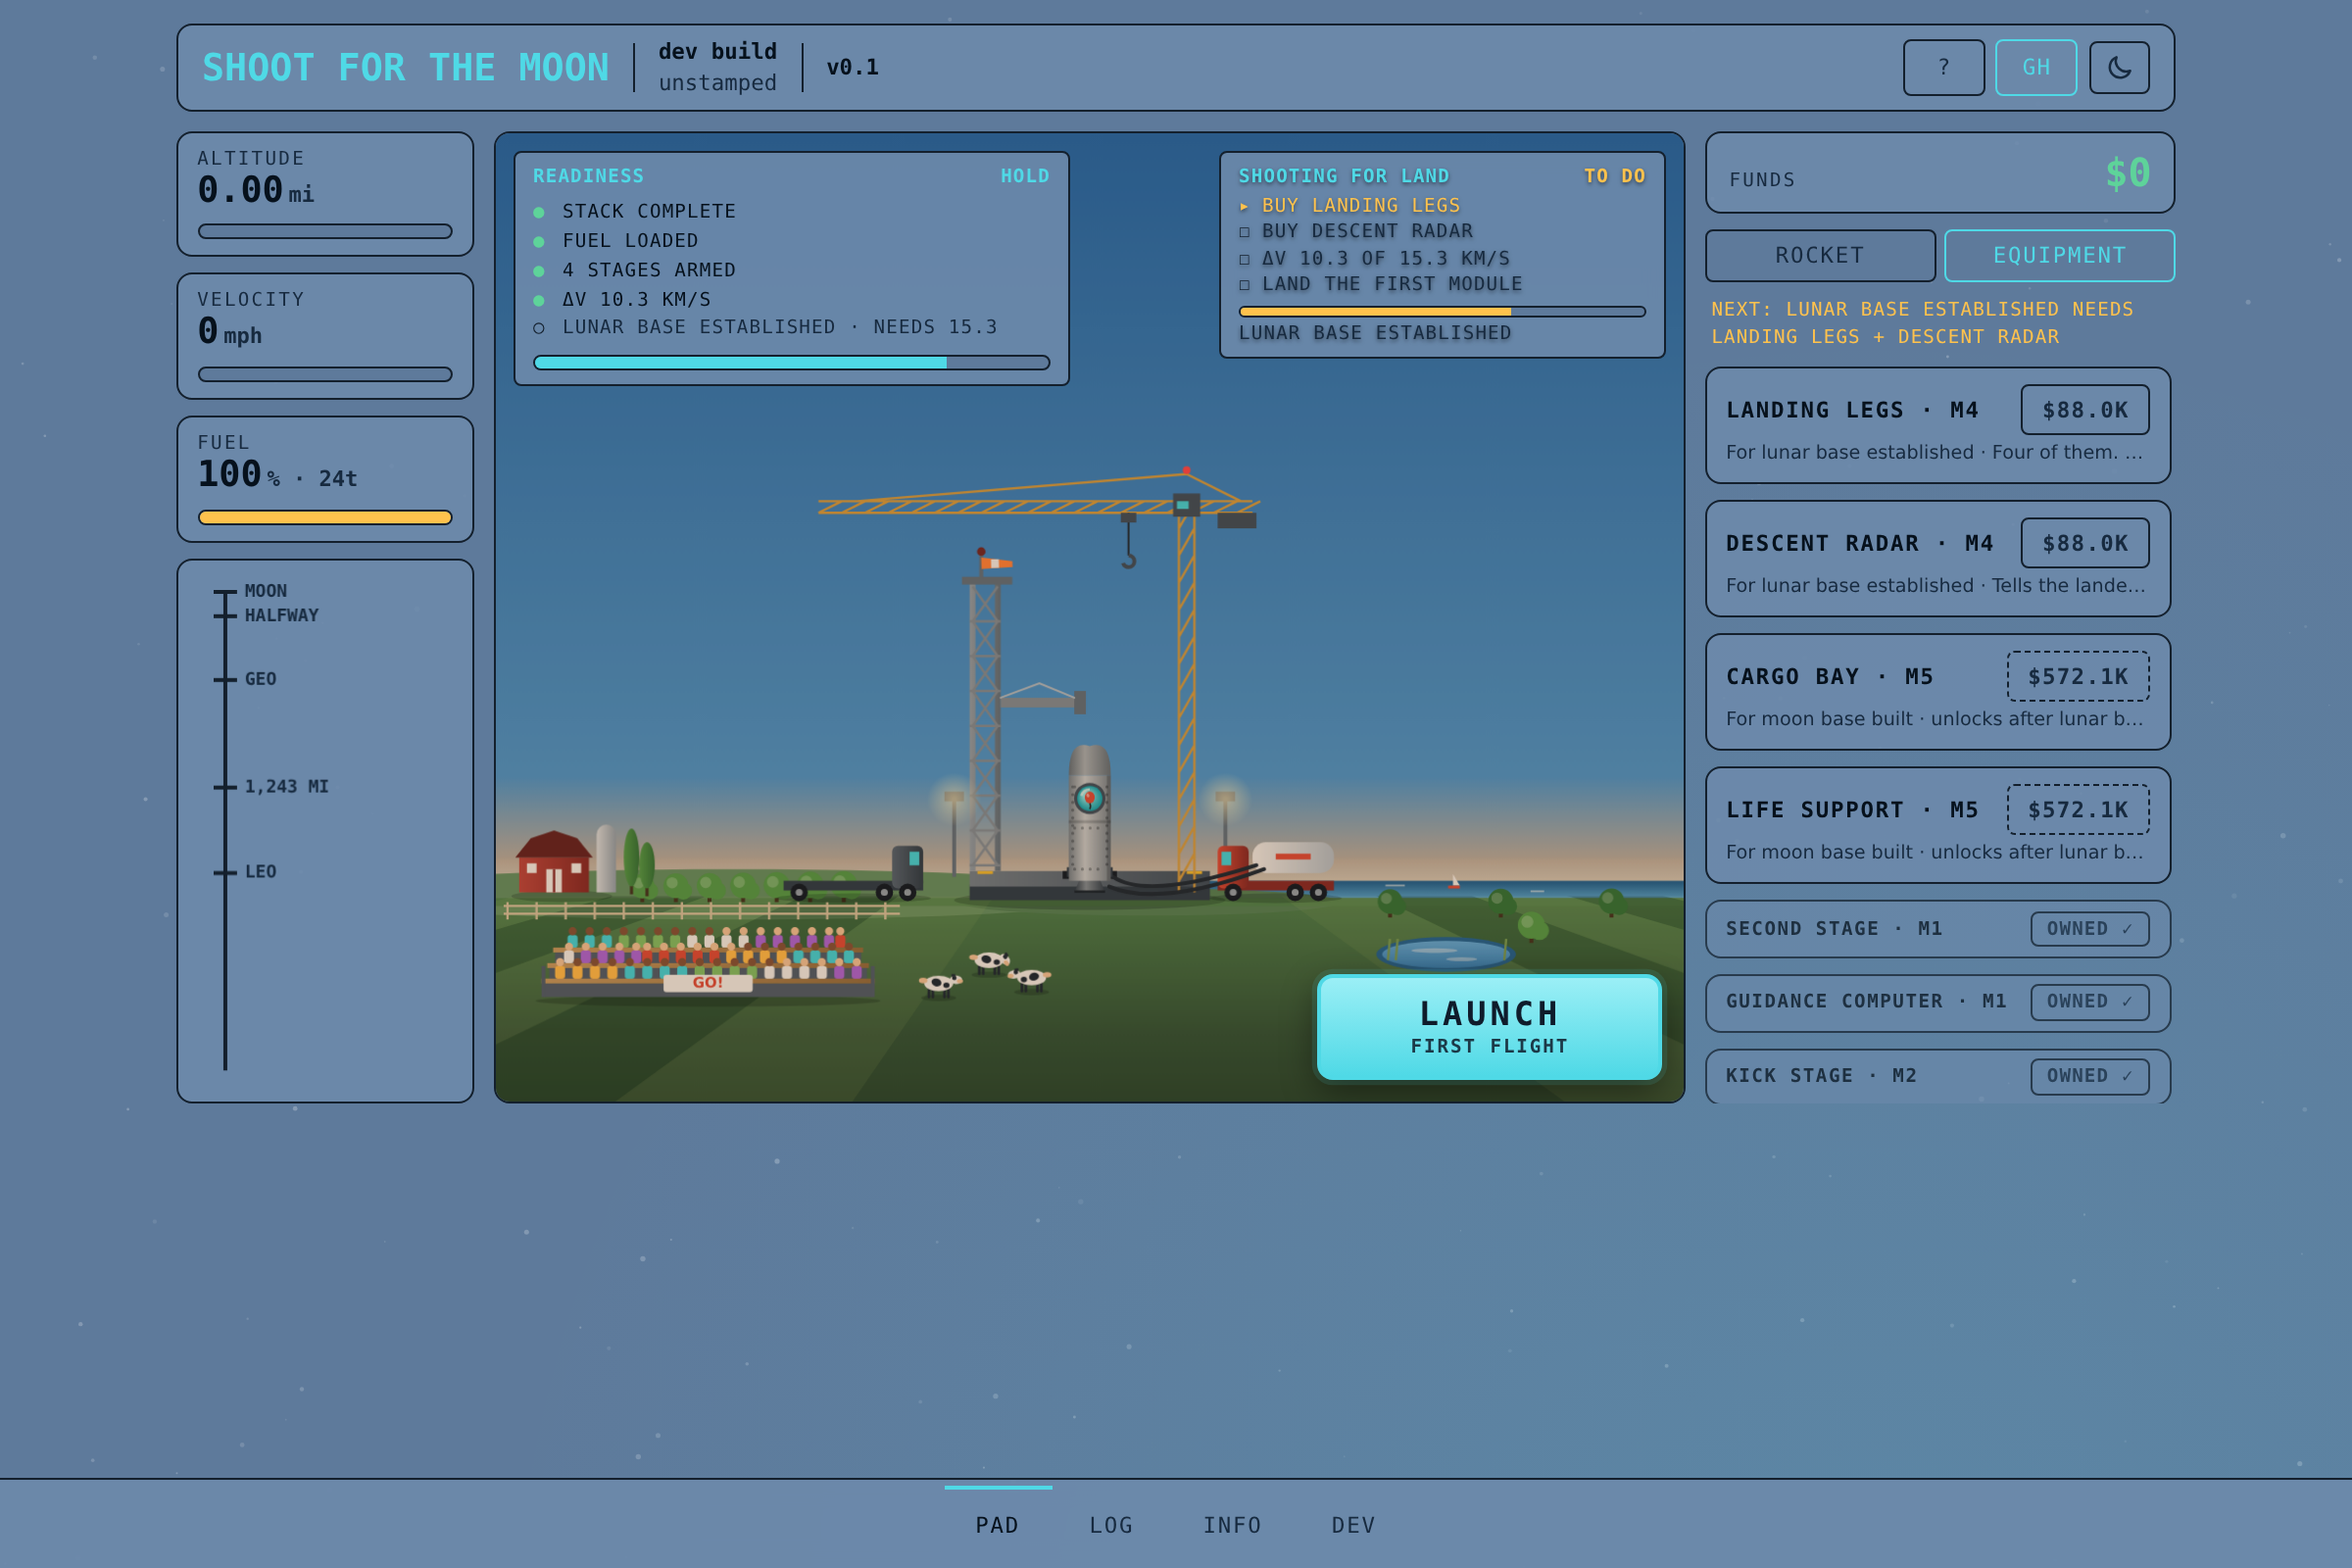
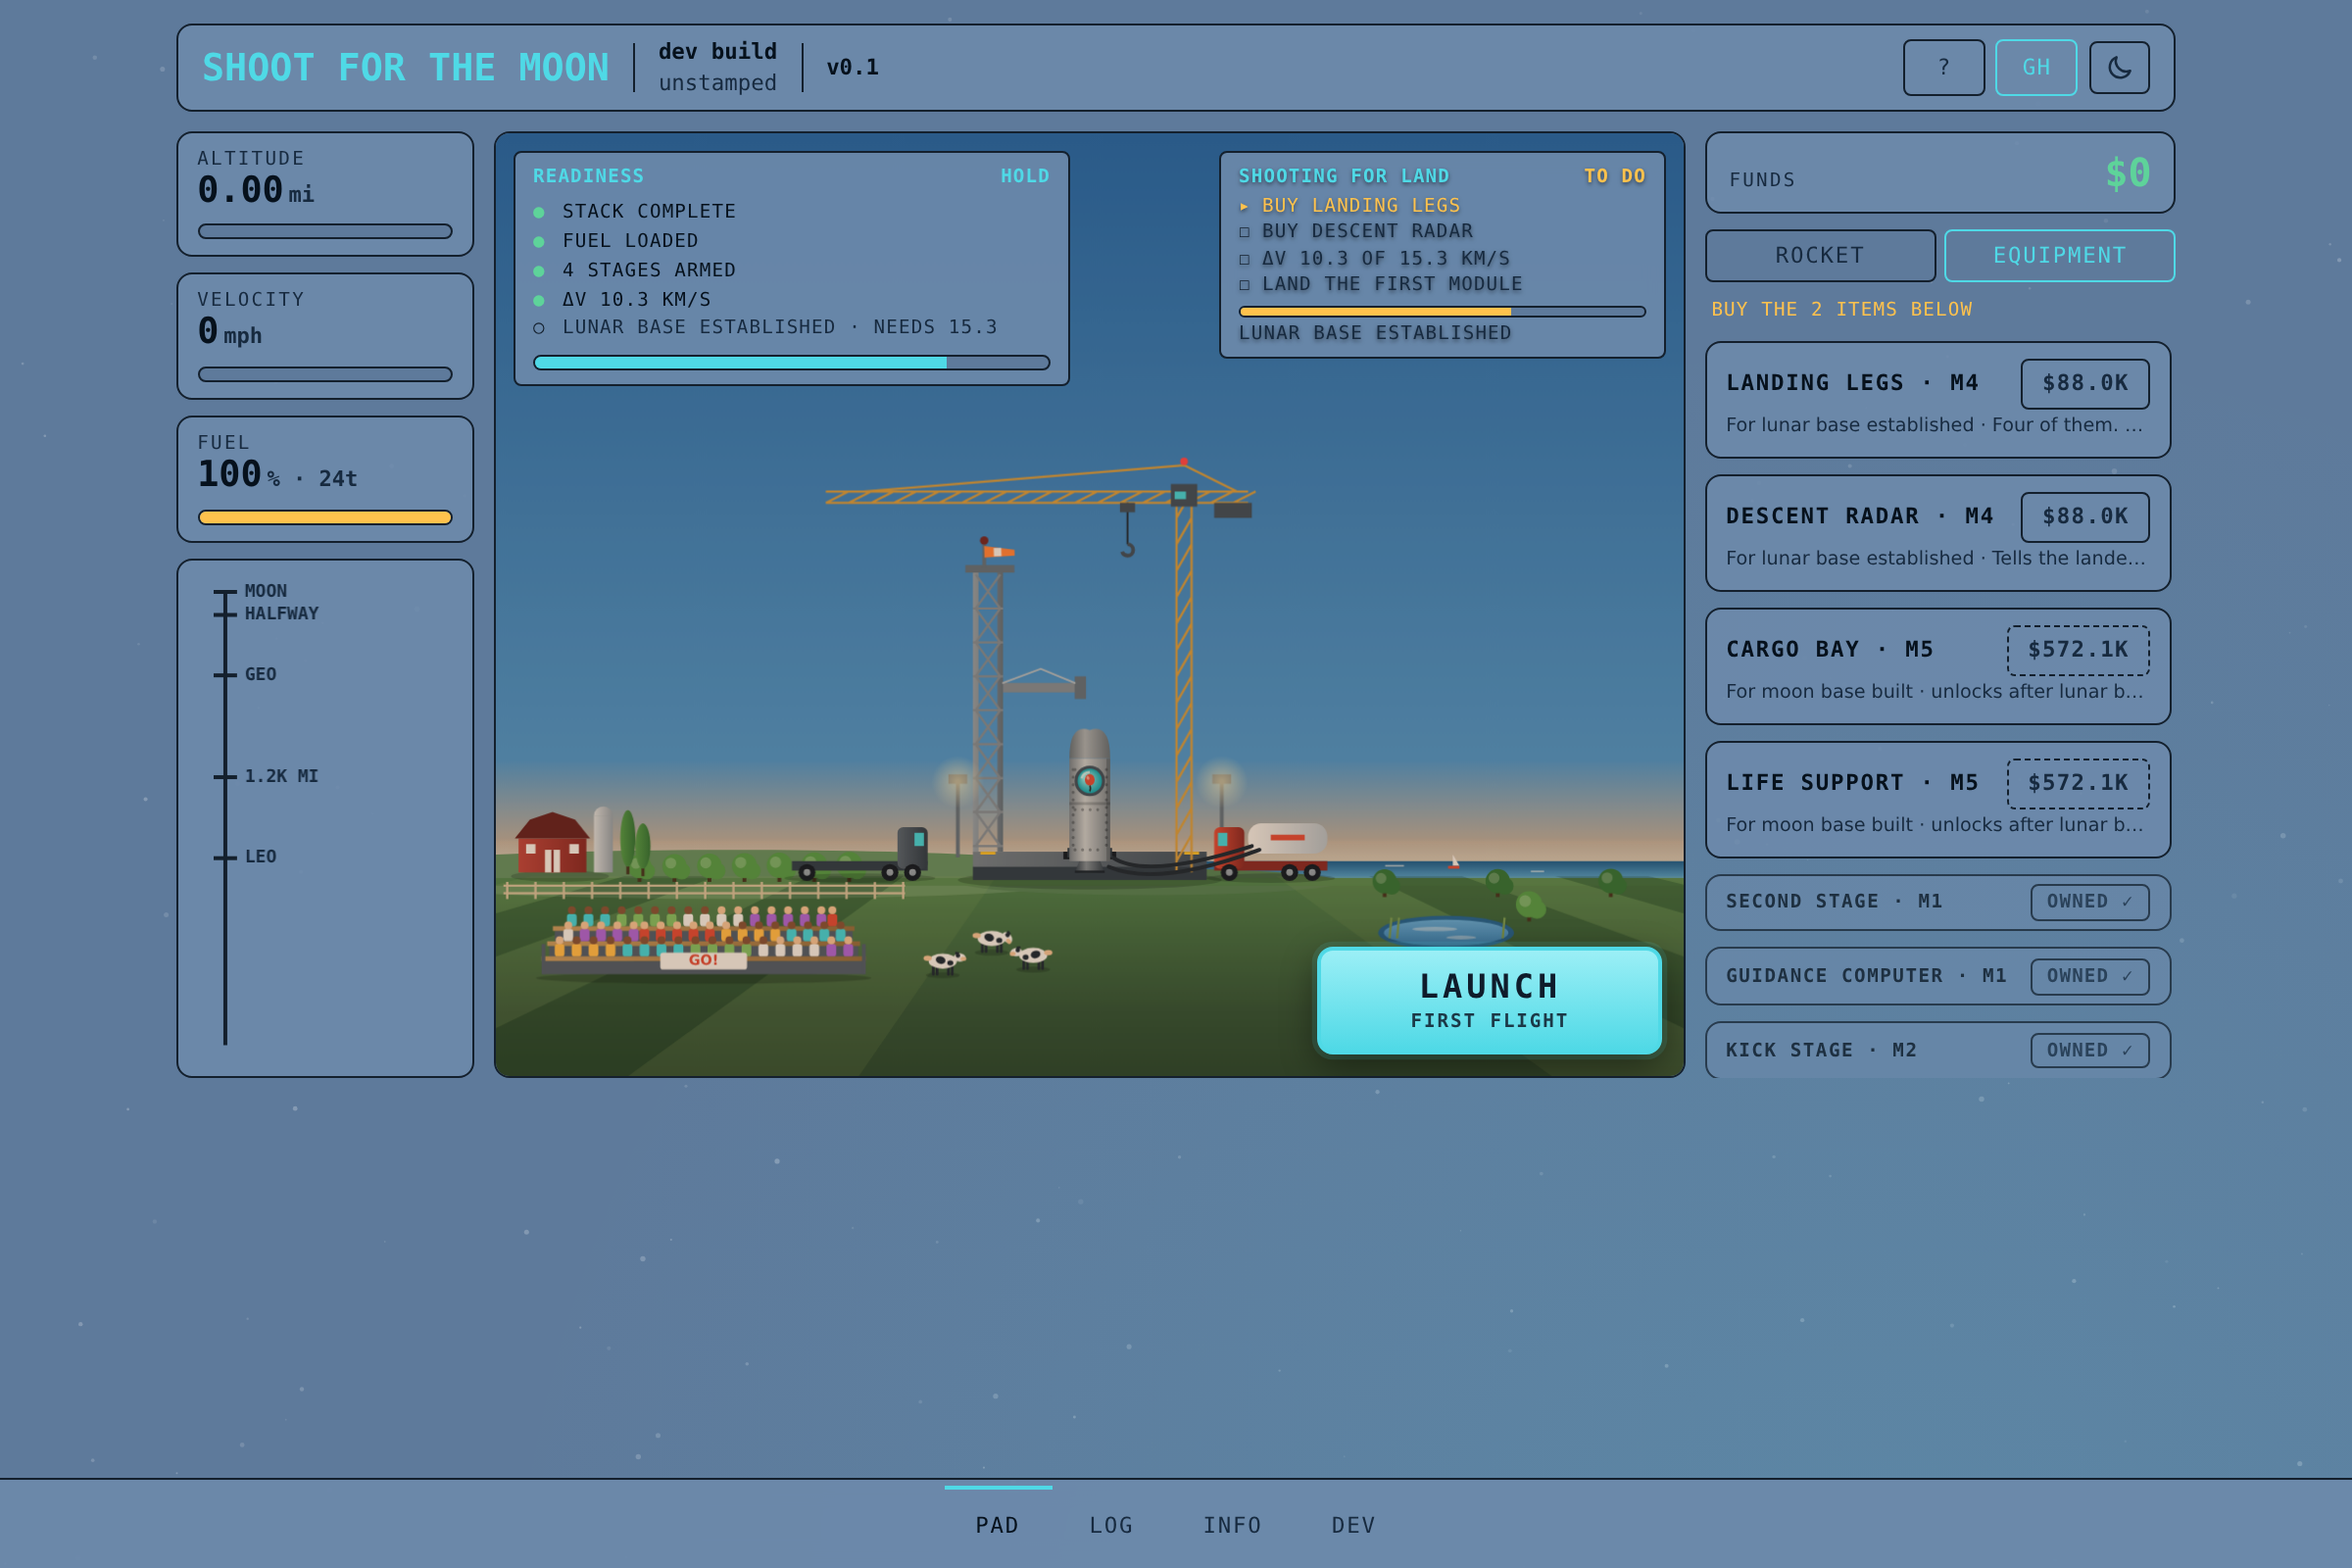
Actually apply the hint dedup and the ladder label fix
Correcting the record: the previous commit's message claimed these two changes,
but the script that made them aborted on a failed exact-match assertion before
writing the file, so only the button, shop and checklist work landed. The
message was wrong, not the code.

Here are the two changes for real. The right column repeated the upper-right
checklist word for word, so it now says only what the shop must say: "Buy the 2
items below" or "Upgrade the rocket — more Δv". And one ladder tick was a
hardcoded "1,243 mi" that ignored the new K scale; it goes through the same
formatter as everything else.

Claude-Session: https://claude.ai/code/session_01HnChUnhHG3F9fSAsHdUbbo

Changed region(s): [[0.1875, 0.1875, 0.9375, 0.7188], [0.0938, 0.5312, 0.125, 0.5625], [0.0938, 0.4062, 0.125, 0.4375]]

diff --git a/app/shoot-for-the-moon.html b/app/shoot-for-the-moon.html
@@ -4365,7 +4365,7 @@ function ladderScale() {
     ticks: [[250, '250'], [1000, '1,000'], [2500, '2,500'], [5000, '5,000'], [10000, '10,000 · DONE']],
     val: S.population, got: v => S.population >= v };
   if (m >= 2) return { kind: 'far', title: 'To the Moon', max: MOON_KM,
-    ticks: [[200, 'LEO'], [2000, '1,243 mi'], [36000, 'GEO'], [200000, 'HALFWAY'], [MOON_KM, 'MOON']],
+    ticks: [[200, 'LEO'], [2000, fmtMi(2000) + ' mi'], [36000, 'GEO'], [200000, 'HALFWAY'], [MOON_KM, 'MOON']],
     val: S.bestKm, got: v => S.bestKm >= v * 0.999 };
   return { kind: 'alt', title: 'Altitude', max: 400,
     ticks: MILESTONES.filter(x => x.km <= 400).map(x => [x.km, fmtMi(x.km) + ' mi']).concat([[200, 'ORBIT']]),
@@ -4449,9 +4449,9 @@ function shopHint() {
   if (S.mission >= 5) return { text: 'Base at ' + S.population.toLocaleString('en-US') + ' / 10,000 · every launch lands cargo', ok: true };
   const am = armedMission(); if (am) return { text: 'READY: press LAUNCH to ' + MISSIONS[am].flight.toLowerCase(), ok: true };
   const M = MISSIONS[next], missing = M.equip.filter(id => !S.equipment[id]);
-  if (missing.length) return { text: 'Next: ' + M.name + ' needs ' + missing.map(id => EQUIPMENT[id].name).join(' + '), ok: false };
-  const p = plan || replan();
-  return { text: 'Next: ' + M.name + ' needs Δv ' + (M.dvReq / 1000).toFixed(1) + ' km/s · you have ' + (p.f.dv / 1000).toFixed(1) + ' — upgrade the rocket', ok: false };
+  if (missing.length) return { text: 'Buy the ' + missing.length + ' item' + (missing.length > 1 ? 's' : '') + ' below', ok: false };
+
+  return { text: 'Upgrade the rocket — more Δv', ok: false };
 }
 function paintShop() {
   if (!plan) replan();
